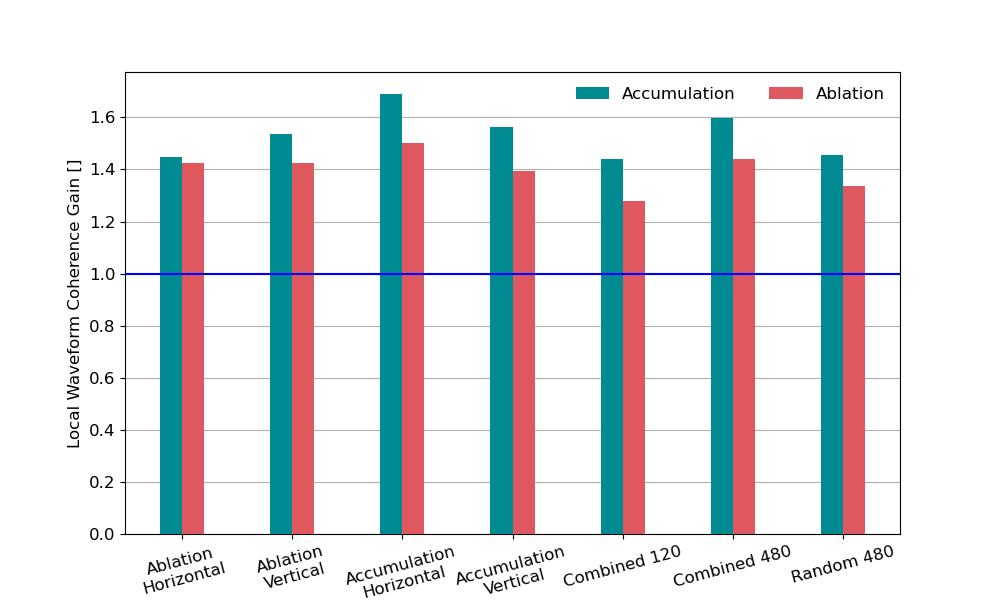
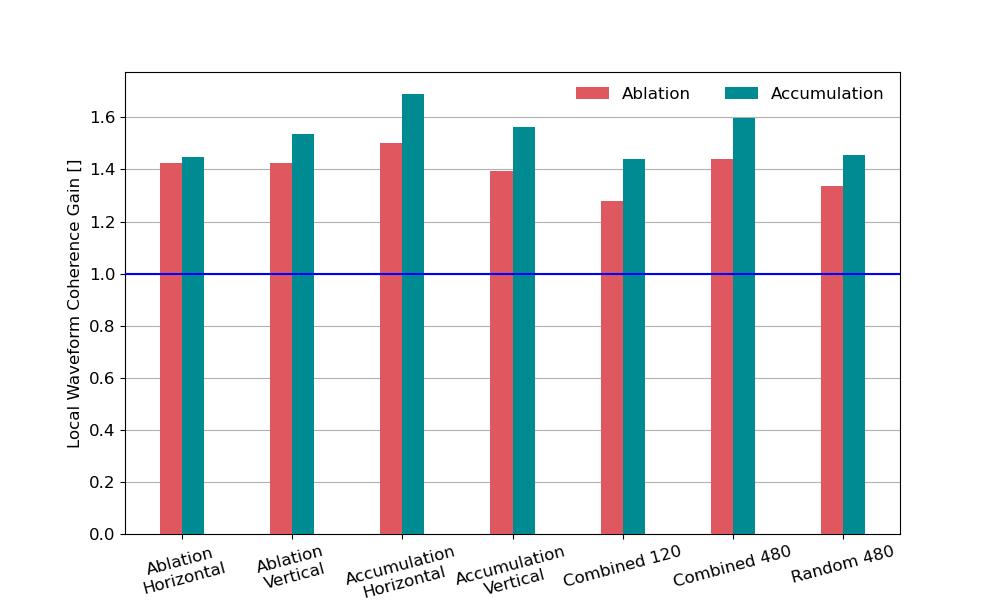
channelspacing changed to 8 m

diff --git a/plotting_visual_assesment.py b/plotting_visual_assesment.py
@@ -104,63 +104,66 @@ denoised_successfull_abl = [data['2_raw:not_visible_denoised:visible'] for data 
 not_visible_abl = [data['3_raw:not_visible:denoised:not_visible'] for data in values_abl.values()]
 
 # Breite der Balken
-col_acc = "#008B93"
-col_abl = "#DF575F"
-fontsize=15
+col_acc1 = "#008B93"
+col_acc2 = "#7FC4C8"
+col_acc3 = "#CCE7E9"
+col_abl1 = "#DF575F"
+col_abl2 = "#EEAAAE"
+col_abl3 = "#F5CCCE"
+zorder = 3
+fontsize=12
 bar_width = 0.25
 bar_gap = 0.05
 bar_positions_abl = np.arange(len(categories))
 bar_positions_acc = bar_positions_abl + bar_width + bar_gap # Verschiebe die Positionen für Ablation
 
-fig, (ax1, ax2) = plt.subplots(2, 1, sharex=True, figsize=(12, 7), gridspec_kw={
+fig, (ax1, ax2) = plt.subplots(2, 1, sharex=True, figsize=(10, 6), gridspec_kw={
                            'width_ratios': [1],
                            'height_ratios': [1, 6]})
 fig.subplots_adjust(hspace=0.05)
 
 ''' Erster Oberer Subplot'''
 # Accumulation Data:
-ax1.bar(bar_positions_acc, denoised_successfull_acc, bar_width, label='denoised successfully', color=col_acc, alpha=1)
+ax1.bar(bar_positions_acc, denoised_successfull_acc, bar_width, label='denoised successfully', color=col_acc1, zorder=zorder)
 ax1.bar(bar_positions_acc, not_visible_acc, bar_width, bottom=np.array(denoised_successfull_acc),
-        label='not visible on raw nor denoised', color=col_acc, alpha=0.5)
+        label='not visible on raw nor denoised', color=col_acc2, zorder=zorder)
 ax1.bar(bar_positions_acc, raw_visible_acc, bar_width,
-        bottom=np.array(denoised_successfull_acc) + np.array(not_visible_acc), label='visible on raw data', color=col_acc,
-        alpha=0.3)
+        bottom=np.array(denoised_successfull_acc) + np.array(not_visible_acc), label='visible on raw data', color=col_acc3, zorder=zorder)
 
 # Ablation Data:
-ax1.bar(bar_positions_abl, denoised_successfull_abl, bar_width, label='denoised successfully', color=col_abl, alpha=1)
+ax1.bar(bar_positions_abl, denoised_successfull_abl, bar_width, label='denoised successfully', color=col_abl1, zorder=zorder)
 ax1.bar(bar_positions_abl, not_visible_abl, bar_width, bottom=np.array(denoised_successfull_abl),
-        label='not visible on raw nor denoised', color=col_abl, alpha=0.5)
+        label='not visible on raw nor denoised', color=col_abl2, zorder=zorder)
 ax1.bar(bar_positions_abl, raw_visible_abl, bar_width,
-        bottom=np.array(denoised_successfull_abl) + np.array(not_visible_abl), label='visible on raw data', color=col_abl,
-        alpha=0.3)
+        bottom=np.array(denoised_successfull_abl) + np.array(not_visible_abl), label='visible on raw data', color=col_abl3, zorder=zorder)
 
 ''' Zweiter Unterer Subplot'''
 # Accumulation Data:
-ax2.bar(bar_positions_acc, denoised_successfull_acc, bar_width, label='denoised successfully', color=col_acc, alpha=1)
+ax2.bar(bar_positions_acc, denoised_successfull_acc, bar_width, label='denoised successfully', color=col_acc1, zorder=zorder)
 ax2.bar(bar_positions_acc, not_visible_acc, bar_width, bottom=np.array(denoised_successfull_acc),
-        label='not visible on raw nor denoised', color=col_acc, alpha=0.5)
+        label='not visible on raw nor denoised', color=col_acc2, zorder=zorder)
 ax2.bar(bar_positions_acc, raw_visible_acc, bar_width,
-        bottom=np.array(denoised_successfull_acc) + np.array(not_visible_acc), label='visible on raw data', color=col_acc,
-        alpha=0.3)
+        bottom=np.array(denoised_successfull_acc) + np.array(not_visible_acc), label='visible on raw data', color=col_acc3, zorder=zorder)
 
 # Ablation Data
-ax2.bar(bar_positions_abl, denoised_successfull_abl, bar_width, label='denoised successfully', color=col_abl, alpha=1)
+ax2.bar(bar_positions_abl, denoised_successfull_abl, bar_width, label='denoised successfully', color=col_abl1, zorder=zorder)
 ax2.bar(bar_positions_abl, not_visible_abl, bar_width, bottom=np.array(denoised_successfull_abl),
-        label='not visible on raw nor denoised', color=col_abl, alpha=0.5)
+        label='not visible on raw nor denoised', color=col_abl2, zorder=zorder)
 ax2.bar(bar_positions_abl, raw_visible_abl, bar_width,
-        bottom=np.array(denoised_successfull_abl) + np.array(not_visible_abl), label='visible on raw data', color=col_abl,
-        alpha=0.3)
+        bottom=np.array(denoised_successfull_abl) + np.array(not_visible_abl), label='visible on raw data', color=col_abl3, zorder=zorder)
 
 ''' Ticks and Spines:'''
-ax1.set_ylim(114, 121)
+ax1.set_ylim(113, 121)
 ax1.set_yticks([115, 120], [115, 120], fontsize=fontsize)
 ax1.spines.bottom.set_visible(False)
 ax1.xaxis.set_visible(False)
+ax1.grid(axis="y", zorder=0)
 
 ax2.set_ylim(0, 37)
 ax2.xaxis.tick_bottom()
 ax2.spines.top.set_visible(False)
-ax2.set_ylabel('# Events', y=0.51, ha = 'left',  fontsize=fontsize +1 )
+ax2.set_ylabel('# Events', y=0.51, ha = 'left',  fontsize=fontsize)
+ax2.grid(axis="y", zorder=0)
 
 plt.yticks(fontsize=fontsize)
 plt.xticks(bar_positions_abl + bar_width / 2 + bar_gap / 2, categories, fontsize=fontsize, rotation=15)
@@ -175,8 +178,8 @@ ax2.plot([0, 1], [1, 1], transform=ax2.transAxes, **kwargs)
 
 
 # Custom Legend:
-custom_lines = [mpatches.Patch(facecolor=col_abl, alpha=1, edgecolor='black'),
-                mpatches.Patch(facecolor=col_acc, alpha=1, edgecolor='black'),
+custom_lines = [mpatches.Patch(facecolor=col_abl1, alpha=1, edgecolor='black'),
+                mpatches.Patch(facecolor=col_acc1, alpha=1, edgecolor='black'),
                 mpatches.Patch(facecolor="black", alpha=1, edgecolor='black'),
                 mpatches.Patch(facecolor="black", alpha=0.3, edgecolor='black'),
                 mpatches.Patch(facecolor="black", alpha=0.1, edgecolor='black')
@@ -190,19 +193,11 @@ legend2 = ax1.legend(custom_lines[2:5], ["Denoising Sucssesfull", "Denoising Uns
 ax1.add_artist(legend1)
 ax1.add_artist(legend2)
 
-
-#plt.ylabel('# Events', fontsize=fontsize + 1)
-
-
-#ax1.grid(axis="y")
-#ax2.grid(axis="y")
-
-# Den gesamten Plot speichern
 plt.tight_layout()
-#plt.savefig("plots/visual_assesment/combined_plot:6legend.png", bbox_inches="tight", pad_inches = 0.1)
 
-# Den Plot anzeigen
+# Den Plot anzeigen oder speichern
 plt.show()
+#plt.savefig("plots/visual_assesment/combined_plot:6legend.png", bbox_inches="tight", pad_inches = 0.1)
 
 
 

diff --git a/plotting_synthetics.py b/plotting_synthetics.py
@@ -21,15 +21,31 @@ def plot_das_data(data):
     i = 0
     plt.figure(figsize=(10, 8))
     for ch in range(channels):
-        plt.plot(data[ch][:] + 12 * i, '-k', alpha=alpha)
+        plt.plot(data[ch][:] + 15 * i, '-k', alpha=alpha)
         i += 1
+
     plt.show()
+
+
+'''
+Estemate Velocity of waveform
+
+'''
+
+data_path = "data/synthetic_DAS/from_DAS/cleanDAS_ID:34_SNR:0.npy"
+data = np.load(os.path.join(data_path))
+data = data[47:55,1080:1115]
+
+print(data.shape)
+plot_das_data(data)
+
+
 
 '''
 
 Single Waveform Comparison - Seis
 
-'''
+
 
 event_id = 46 # 37, 46, 48, 96
 SNR_values = [0.0, 0.3, 1.0, 3.2, 10.0] # 0.0, 0.3, 1.0, 3.2, 10.0, 31.6, 100.0
@@ -105,10 +121,10 @@ for i, event_name in enumerate(event_names):
     axs[i].text(x=0.5, y=1.03, transform=axs[i].transAxes, s=snr_values[i], fontsize=fontsize + 2, ha="center")
 
 plt.tight_layout()
-plt.savefig("plots/synthetics/seis_wiggle_comparison.png")
-#plt.show()
+#plt.savefig("plots/synthetics/seis_wiggle_comparison.png")
+plt.show()
 
-
+'''
 
 '''
 
@@ -543,7 +559,7 @@ for event_name in event_names:
 
 t_start = 800
 t_end = 1500
-ch_start = 18
+ch_start = 20
 ch_end = 62
 alpha = 0.8
 fontsize = 14
@@ -580,7 +596,7 @@ for i, event_name in enumerate(event_names):
     axs[i, 1].set_yticks([])
     axs[i, 2].set_yticks([])
     axs[i, 0].set_ylabel("Offset [m]", fontsize=fontsize)
-    axs[i, 0].set_yticks(range(0, 501, 100), range(0, 9*12*5+1, 9*12), fontsize=fontsize)
+    axs[i, 0].set_yticks(range(0, 501, 100), range(0, 8*12*5+1, 8*12), fontsize=fontsize)
 
     # x-Achsen:
     for j in range(3):
@@ -592,21 +608,39 @@ for i, event_name in enumerate(event_names):
 
 
 # Beschriftung Plot
-axs[0, 0].text(30, 470, "No Noise Added", bbox=dict(facecolor='white'), fontsize=fontsize)
-axs[1, 0].text(30, 470, "SNR: 10.0", bbox=dict(facecolor='white'), fontsize=fontsize)
-axs[2, 0].text(30, 470, "SNR: 3.2", bbox=dict(facecolor='white'), fontsize=fontsize)
-axs[3, 0].text(30, 470, "SNR: 1.0", bbox=dict(facecolor='white'), fontsize=fontsize)
+x = 30
+y = 498
+axs[0, 0].text(x, y, "No Noise Added", bbox=dict(facecolor='white'), fontsize=fontsize)
+axs[1, 0].text(x, y, "SNR: 10.0", bbox=dict(facecolor='white'), fontsize=fontsize)
+axs[2, 0].text(x, y, "SNR: 3.2", bbox=dict(facecolor='white'), fontsize=fontsize)
+axs[3, 0].text(x, y, "SNR: 1.0", bbox=dict(facecolor='white'), fontsize=fontsize)
 
 axs[0, 0].text(40, 560, "Synthetic Corrupted Data", fontsize=fontsize)
 axs[0, 1].text(60, 560, "Denoised with " + experiment1[3:].capitalize(), fontsize=fontsize)
 axs[0, 2].text(60, 560, "Denoised with " + experiment2[3:].capitalize(), fontsize=fontsize)
 
+# Beschriftungen
+letters = ["a", "b", "c", "d", "e", "f", "g", "h", "j", "k", "l", "m", "n", "o", "p"]
+letter_params = {
+    "fontsize": fontsize,
+    "verticalalignment": "top",
+    "bbox": {"edgecolor": "k", "linewidth": 1, "facecolor": "w",}
+}
+
+for i in range(4):
+    for j in range(3):
+        axs[i, j].text(x=0.0, y=1.0, transform=axs[i, j].transAxes, s=letters[i*3+j], **letter_params)
+
 
 
 plt.tight_layout()
-plt.savefig("plots/synthetics/DAS_synthetic_denoised1_denoised2.png")
-#plt.show()
+#plt.savefig("plots/synthetics/DAS_synthetic_denoised1_denoised2.png")
+plt.show()
 
 '''
+
+
+
+
 
 

diff --git a/plotting_cc.py b/plotting_cc.py
@@ -127,8 +127,8 @@ for datatype in datatypes:
 
     plt.figure(figsize=(10, 6))
     plt.grid(axis='y', zorder = 0)
-    plt.bar(x - 0.5 * width, acc_cc_gain, width=width, label='Accumulation', color = col_acc, zorder = 3)
-    plt.bar(x + 0.5 * width, abl_cc_gain, width=width, label='Ablation', color = col_abl, zorder = 3)
+    plt.bar(x - 0.5 * width, abl_cc_gain, width=width, label='Ablation', color=col_abl, zorder=3)
+    plt.bar(x + 0.5 * width, acc_cc_gain, width=width, label='Accumulation', color = col_acc, zorder = 3)
 
     plt.axhline(y=1, color = "blue", zorder=4)
     # Achsenbeschriftungen und Titel hinzufügen
@@ -138,7 +138,7 @@ for datatype in datatypes:
     plt.legend(fontsize=fontsize, frameon = False, ncol = 2)
 
     # Diagramm anzeigen
-    # plt.show()
+    #plt.show()
     plt.savefig("plots/cc/" + datatype + ".png")
 
 

diff --git a/generate_synthetic_test_data.py b/generate_synthetic_test_data.py
@@ -71,14 +71,14 @@ def butter_bandpass_filter(data, lowcut, highcut, fs, order=4):
     y = lfilter(b, a, data)
     return y
 
-def compute_shift(gauge = 10, slowness_max = True, fs = 400):
+def compute_shift(gauge = 8, slowness_max = True, fs = 400): # gauge is here channel spacing!
     if slowness_max:
         slowness = 1 / 1650 # S-wave slowness
     else:
         slowness = 1 / 3900 # P-wave slowness
 
     shift = gauge * slowness * fs
-    return int(shift)
+    return round(shift)
 
 
 fs = 400
